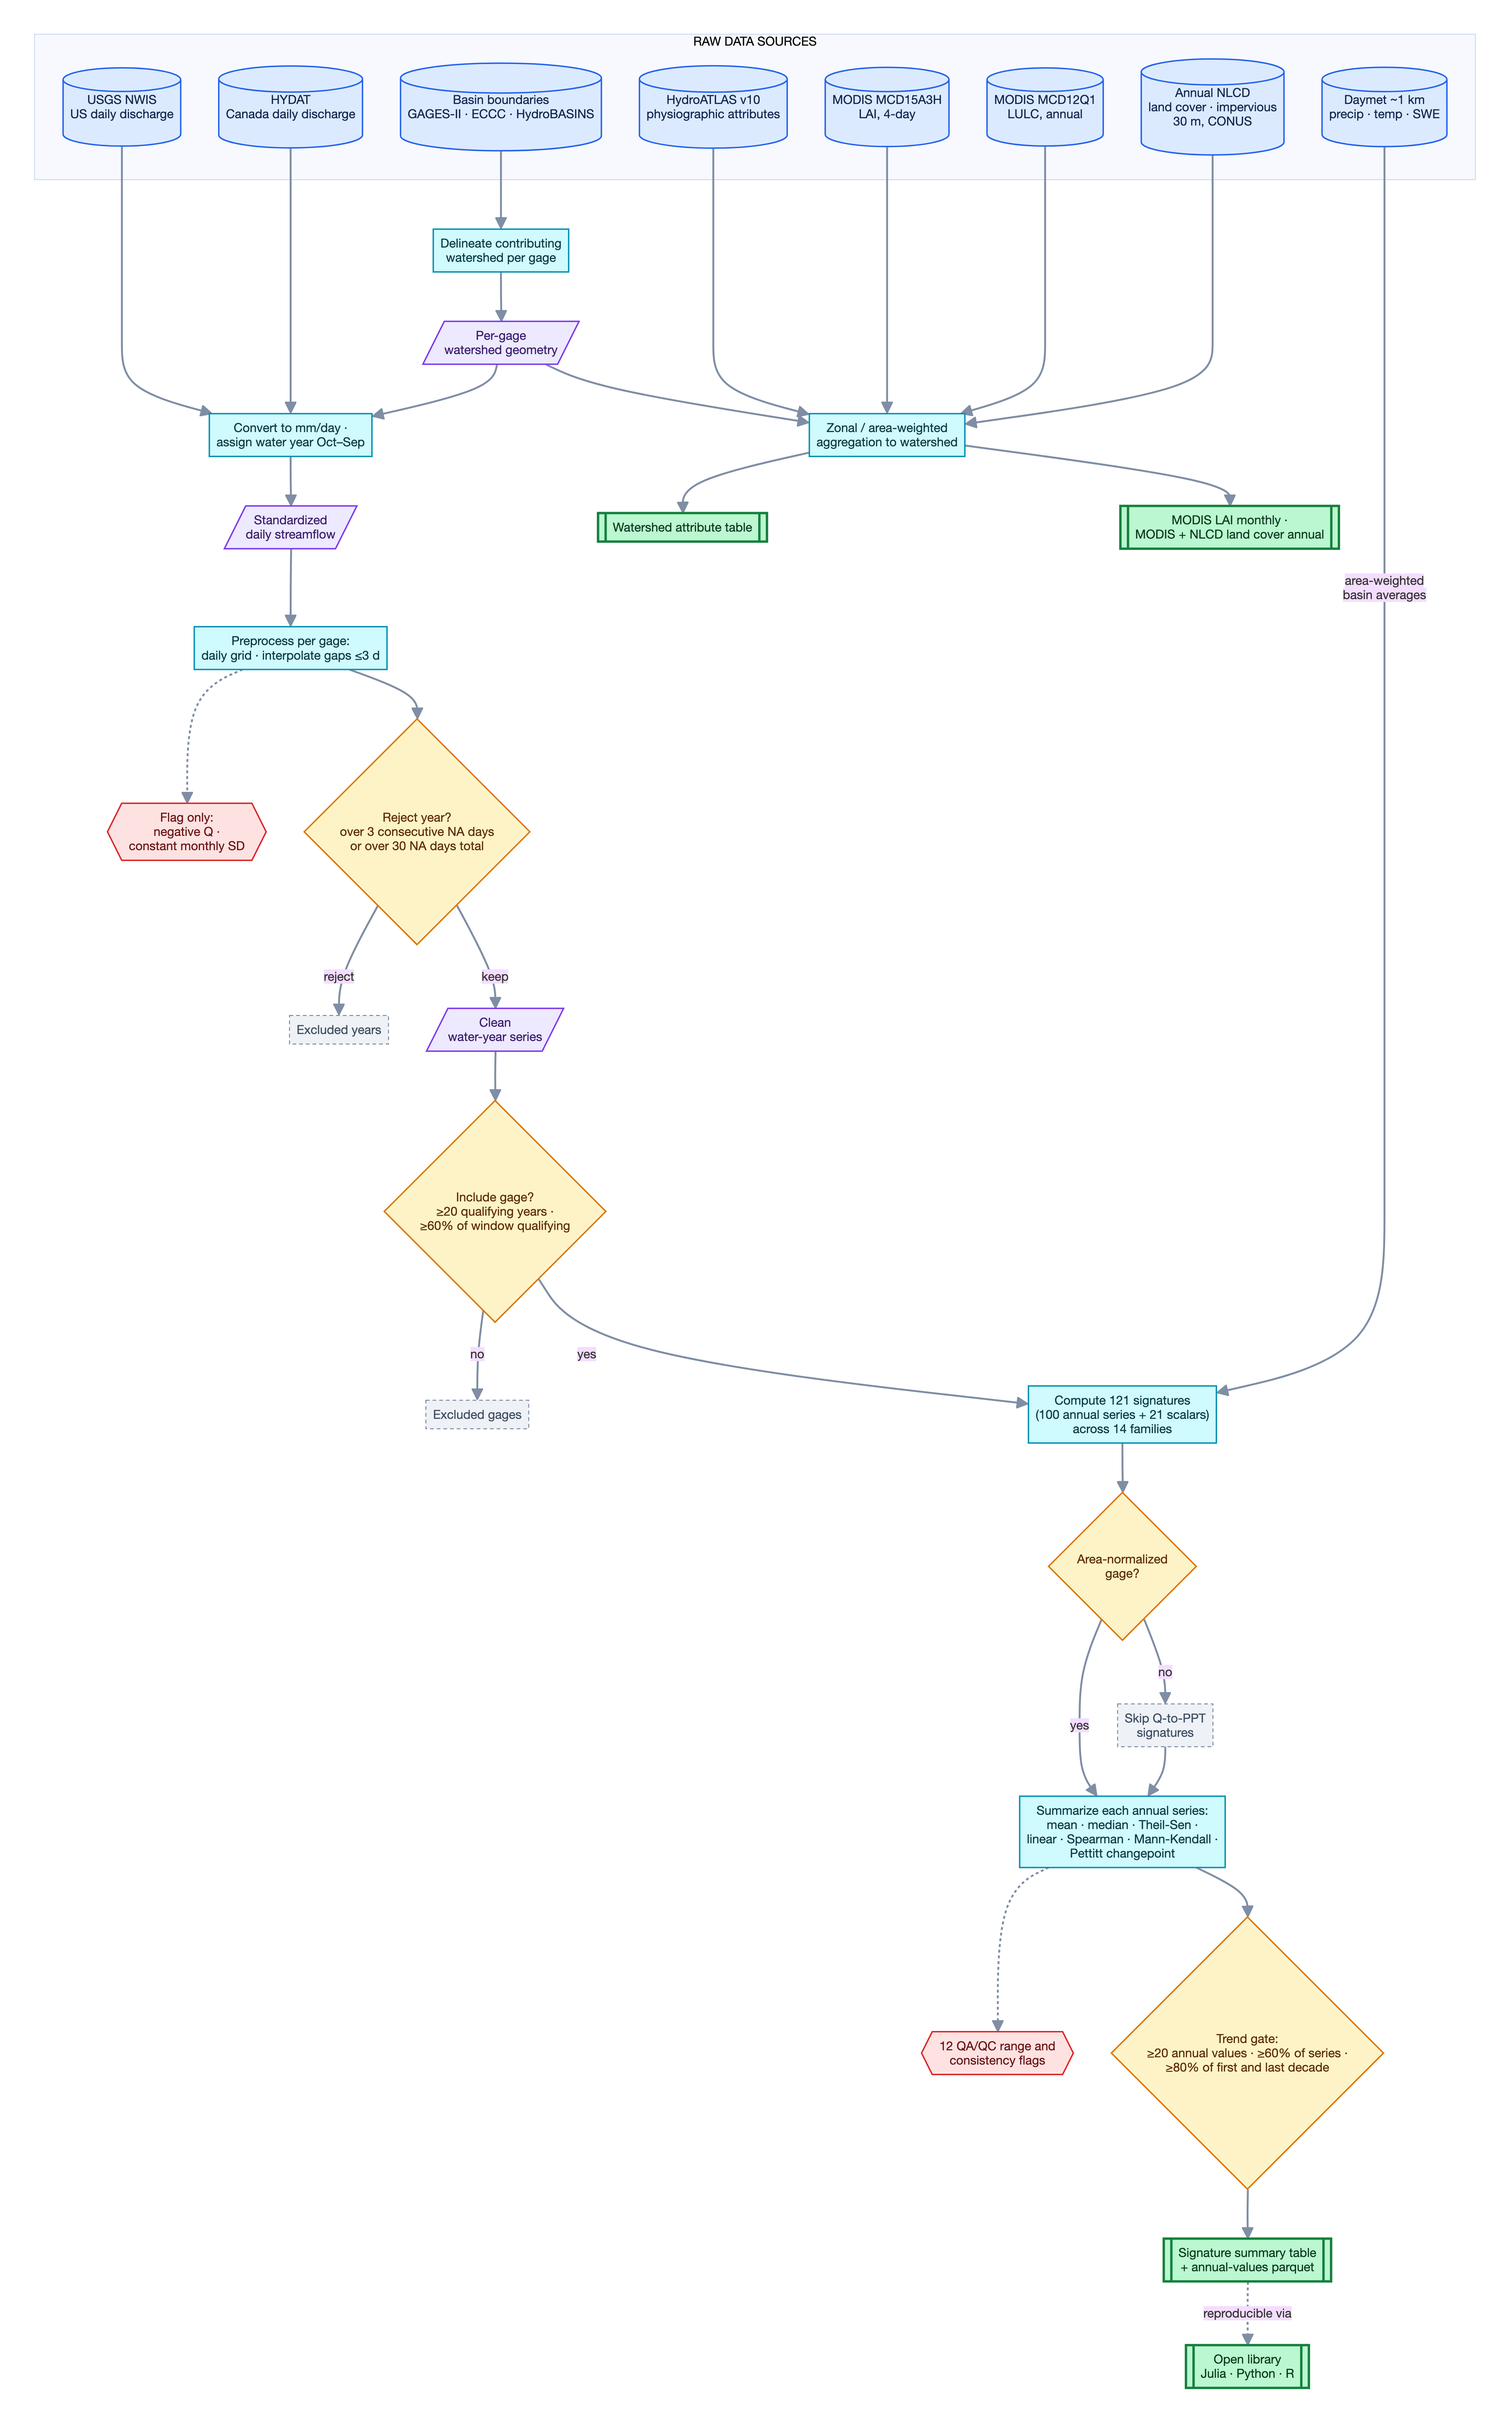
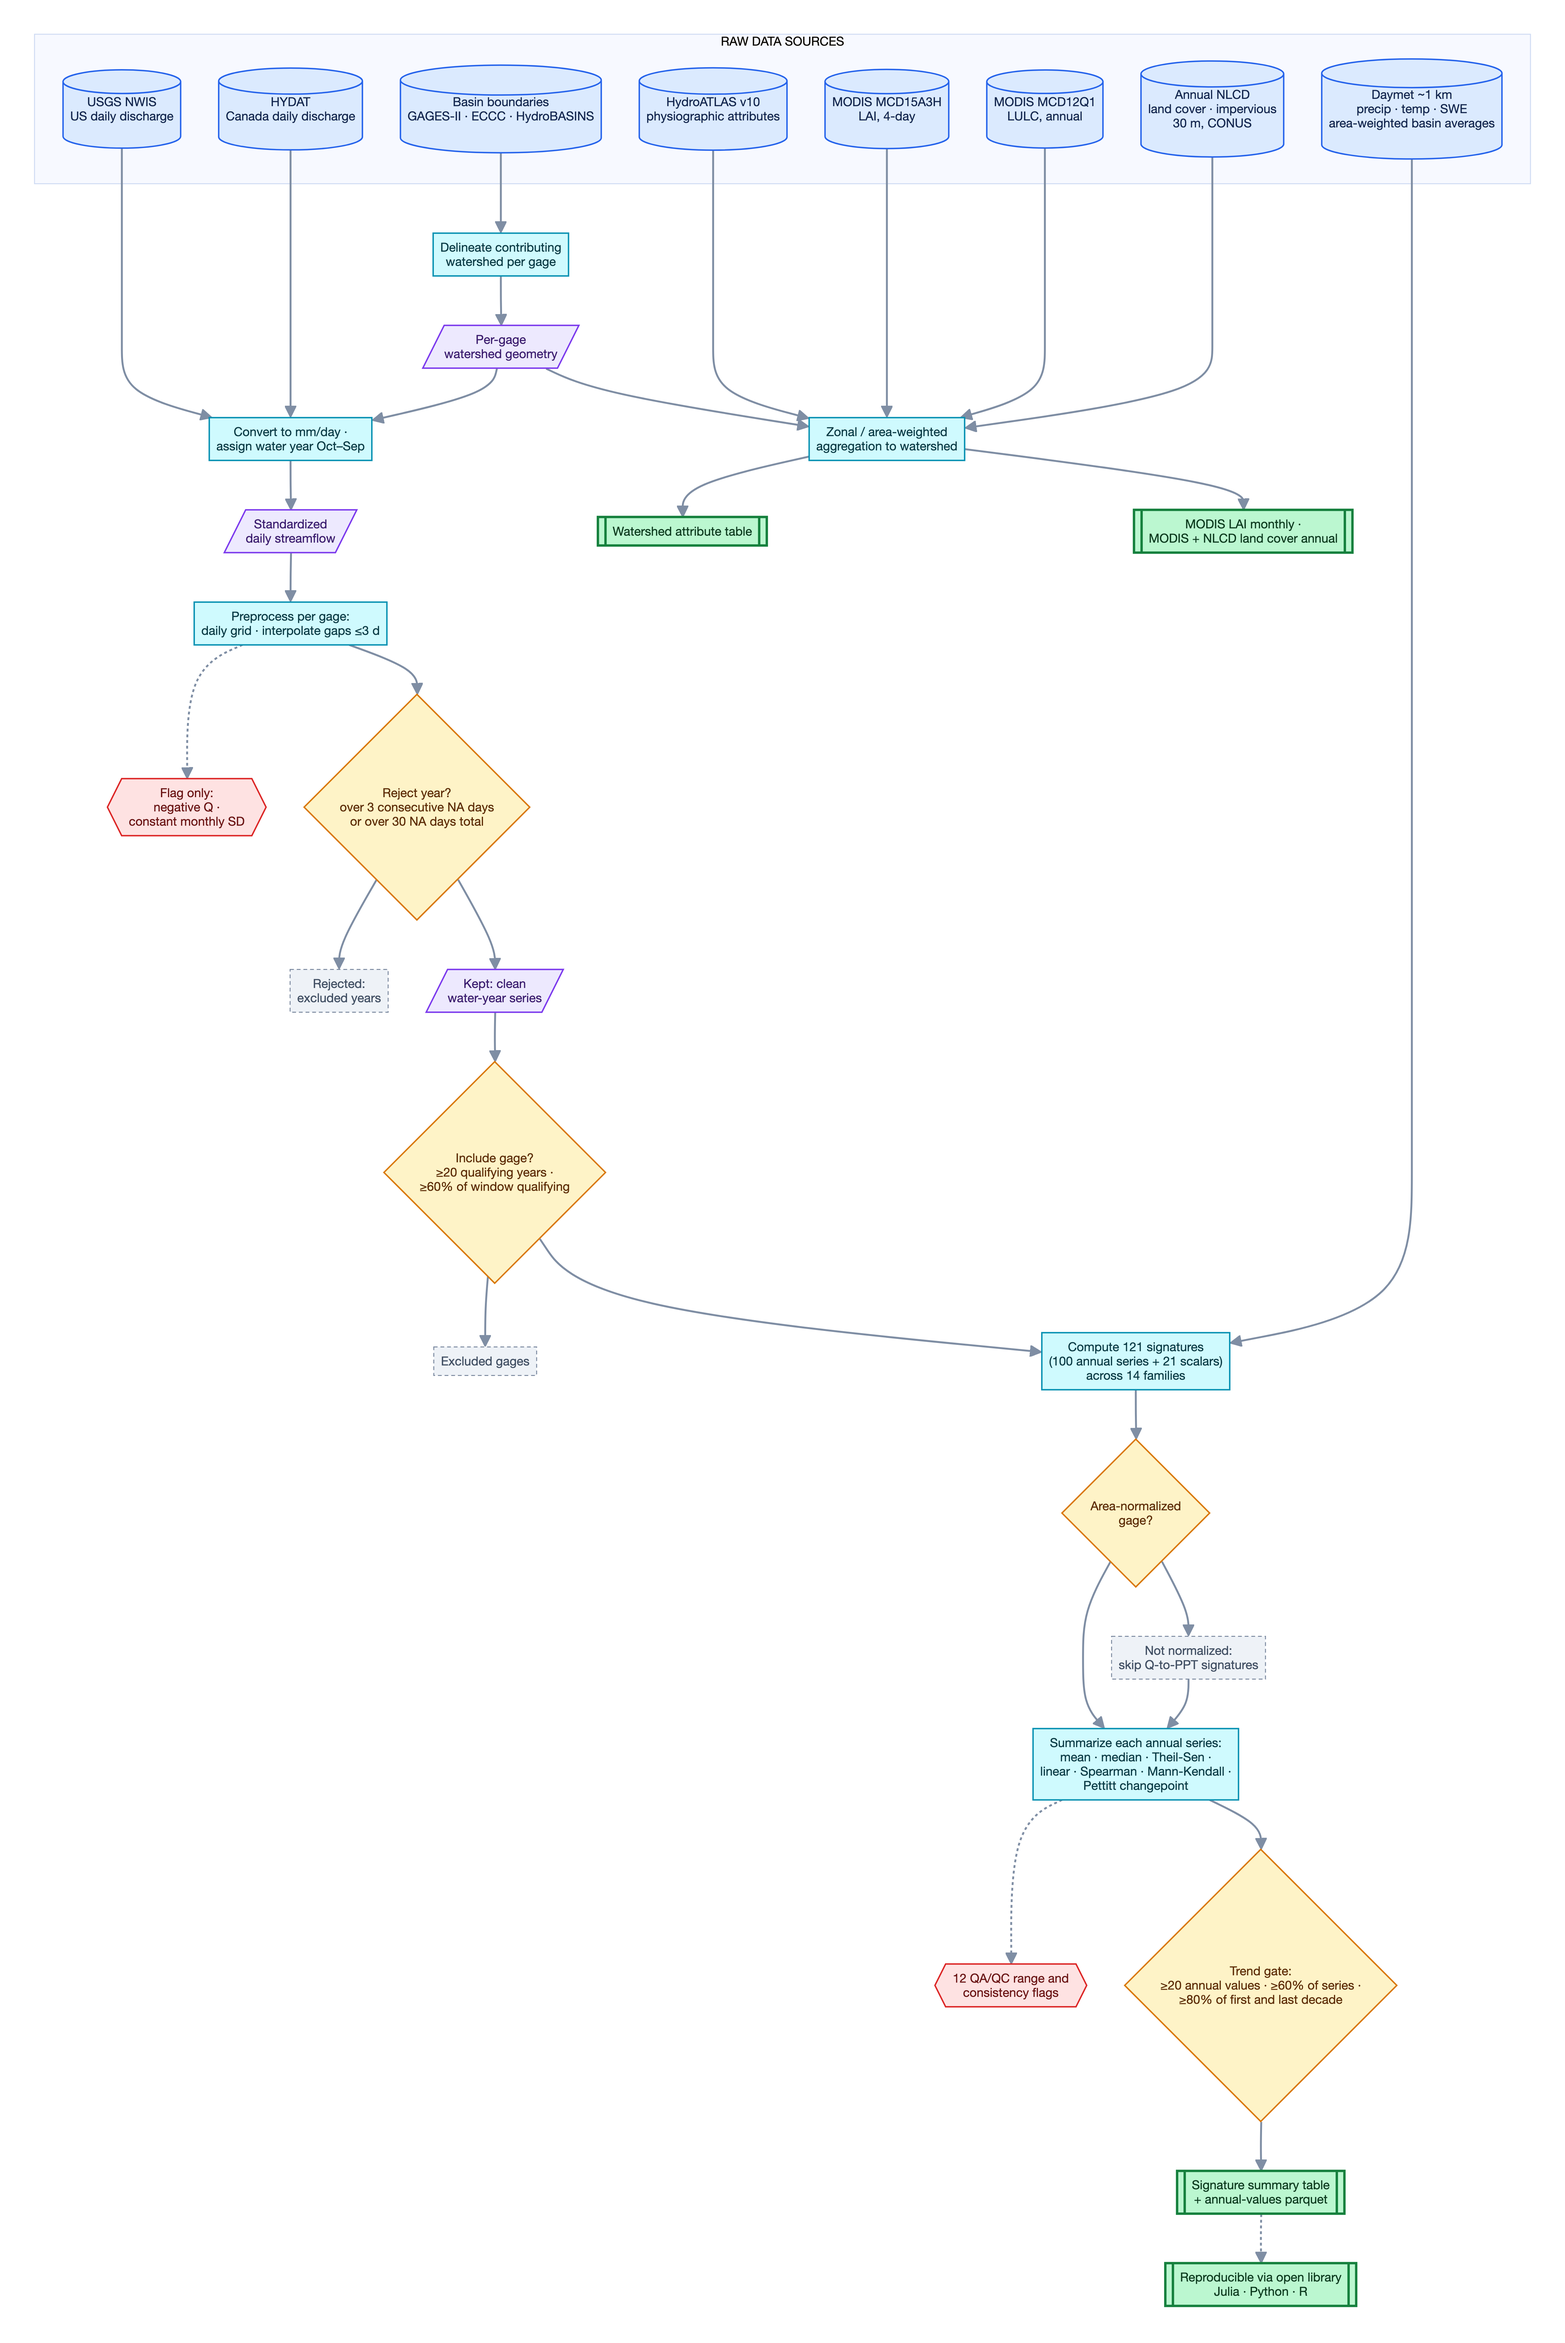
fix(docs): schematic now renders on GitHub — drop init directive + edge labels
GitHub's pinned mermaid crashes at render time (not parse time) on
%%{init}%% directives combined with labeled edges (mermaid-js/mermaid#6452 /
#6022 dagre labeled-edge bug), while stock mermaid 10.9/11.12 render the same
source cleanly. The fenced source is now directive- and edge-label-free:
branch outcomes moved into node text (Rejected/Kept/Not normalized), Daymet's
basin-average note into its source node, and the library link text into the
LIB node. render_mermaid.py injects the former init config via
mermaid.initialize() so the committed 3x PNG keeps the styled look.

Claude-Session: https://claude.ai/code/session_01BLb4JHVEVWwQnYPeNZq5vq

diff --git a/streamflowSignatures/docs/plans/render_mermaid.py b/streamflowSignatures/docs/plans/render_mermaid.py
@@ -12,13 +12,25 @@ out_path = Path(sys.argv[2])
 scale = int(sys.argv[3]) if len(sys.argv) > 3 else 3
 
 diagram = src_path.read_text(encoding="utf-8")
-# The headless shell mishandles the ui-sans-serif/system-ui stack (falls back to
-# serif); substitute a concrete face BEFORE mermaid measures text.
-diagram = diagram.replace(
-    "ui-sans-serif, system-ui, -apple-system, Segoe UI, Roboto, sans-serif",
-    "Helvetica Neue, Helvetica, Arial, sans-serif",
-)
 mermaid_js = (SCRATCH / "mermaid.min.js").read_text(encoding="utf-8")
+
+# Styling injected here rather than as an in-source %%{init}%% directive:
+# GitHub's pinned mermaid crashes at render time on init directives combined
+# with labeled edges (mermaid-js/mermaid#6452/#6022), so the committed source
+# stays directive-free and the PNG render carries the theme config instead.
+# Concrete font face because the headless shell mishandles ui-sans-serif/
+# system-ui stacks (falls back to serif).
+MERMAID_CONFIG = {
+    "startOnLoad": False,
+    "securityLevel": "loose",
+    "theme": "base",
+    "themeVariables": {
+        "fontFamily": "Helvetica Neue, Helvetica, Arial, sans-serif",
+        "fontSize": "13px",
+        "lineColor": "#7f8ea4",
+    },
+    "flowchart": {"htmlLabels": True, "nodeSpacing": 40, "rankSpacing": 52, "curve": "basis"},
+}
 
 html = f"""<!DOCTYPE html>
 <html><head><meta charset="utf-8">
@@ -35,7 +47,7 @@ html = f"""<!DOCTYPE html>
 <div id="wrap"><div id="target"></div></div>
 <script>
   const src = {json.dumps(diagram)};
-  mermaid.initialize({{ startOnLoad: false, securityLevel: "loose" }});
+  mermaid.initialize({json.dumps(MERMAID_CONFIG)});
   mermaid.render("theSvg", src).then(({{ svg }}) => {{
     document.getElementById("target").innerHTML = svg;
     const el = document.querySelector("#target svg");

diff --git a/streamflowSignatures/docs/plans/dataset_workflow_schematic.md b/streamflowSignatures/docs/plans/dataset_workflow_schematic.md
@@ -8,22 +8,30 @@ HydroShare resources' core tables. GitHub renders the diagram below natively.
   (100 annual series + 21 scalars) across **14** families (was "~100 across 13");
   trend gate stated as ≥20 values / **≥60% of series** / ≥80% of first and last
   decade (was "≥80% of series and each decade"); **Annual NLCD** added as a raw
-  source and to the land-cover output table; Daymet edge labeled as pre-computed
+  source and to the land-cover output table; Daymet source noted as pre-computed
   area-weighted basin averages; "gauge" → "gage" (USGS convention); the open
-  library is linked as "reproducible via" rather than a downstream consumer.
+  library linked as "reproducible via" rather than a downstream consumer.
+- **GitHub-compatible form (2026-09-01)**: the source deliberately carries NO
+  `%%{init}%%` directive and NO edge labels — GitHub's pinned mermaid crashes at
+  render time ("Unable to render rich display") on init directives combined with
+  labeled edges (mermaid-js/mermaid#6452 / #6022, a dagre labeled-edge bug its
+  build predates the fix for), even though the diagram parses cleanly in stock
+  mermaid 10/11. Branch outcomes live in node text instead ("Rejected:", "Kept:",
+  "Not normalized:"). Do not reintroduce either construct.
 - **PNG render**: `dataset_workflow_schematic.png` (same folder, 3× resolution,
   white ground) — regenerate with `render_mermaid.py` (same folder; needs a venv
   with `playwright` + `playwright install chromium`, plus `mermaid.min.js`
   downloaded beside the script — cdnjs mermaid 10.9.3 UMD):
-  `python render_mermaid.py <in.mmd> <out.png> 3`. Any mermaid-cli works too.
-  The script works around two headless-shell quirks: mermaid's font CSS never
-  reaches the foreignObject labels (falls back to Times), and the SVG collapses
-  to container width unless pinned to its viewBox size.
+  `python render_mermaid.py <in.mmd> <out.png> 3`. The theme/spacing/curve config
+  the init directive used to carry is injected by the renderer via
+  `mermaid.initialize()`, so the PNG keeps the styled look. The script also works
+  around two headless-shell quirks: mermaid's font CSS never reaches the
+  foreignObject labels (falls back to Times), and the SVG collapses to container
+  width unless pinned to its viewBox size.
 - This folder (`docs/plans/`) is excluded from the public CZ-Sync/HISSS mirror,
   so the figure stays private until the manuscript ships.
 
 ```mermaid
-%%{init: {"theme":"base","themeVariables":{"fontFamily":"ui-sans-serif, system-ui, -apple-system, Segoe UI, Roboto, sans-serif","fontSize":"13px","lineColor":"#7f8ea4"},"flowchart":{"htmlLabels":true,"nodeSpacing":40,"rankSpacing":52,"curve":"basis"}}}%%
 flowchart TB
 
 classDef raw fill:#dbeafe,stroke:#2563eb,stroke-width:1.5px,color:#14274e;
@@ -39,7 +47,7 @@ subgraph SRC["RAW DATA SOURCES"]
   USGS[("USGS NWIS<br/>US daily discharge")]:::raw
   HYDAT[("HYDAT<br/>Canada daily discharge")]:::raw
   BND[("Basin boundaries<br/>GAGES-II · ECCC · HydroBASINS")]:::raw
-  DAY[("Daymet ~1 km<br/>precip · temp · SWE")]:::raw
+  DAY[("Daymet ~1 km<br/>precip · temp · SWE<br/>area-weighted basin averages")]:::raw
   ATL[("HydroATLAS v10<br/>physiographic attributes")]:::raw
   LAI[("MODIS MCD15A3H<br/>LAI, 4-day")]:::raw
   LC[("MODIS MCD12Q1<br/>LULC, annual")]:::raw
@@ -57,17 +65,17 @@ DDP --> QC["Preprocess per gage:<br/>daily grid · interpolate gaps ≤3 d"]:::p
 
 QC -.-> FL{{"Flag only:<br/>negative Q ·<br/>constant monthly SD"}}:::flag
 QC --> YR{"Reject year?<br/>over 3 consecutive NA days<br/>or over 30 NA days total"}:::filt
-YR -->|reject| XY["Excluded years"]:::drop
-YR -->|keep| WYS[/"Clean<br/>water-year series"/]:::inter
+YR --> XY["Rejected:<br/>excluded years"]:::drop
+YR --> WYS[/"Kept: clean<br/>water-year series"/]:::inter
 
 WYS --> GG{"Include gage?<br/>≥20 qualifying years ·<br/>≥60% of window qualifying"}:::filt
-GG -->|no| XG["Excluded gages"]:::drop
-GG -->|yes| SIG["Compute 121 signatures<br/>(100 annual series + 21 scalars)<br/>across 14 families"]:::proc
+GG --> XG["Excluded gages"]:::drop
+GG --> SIG["Compute 121 signatures<br/>(100 annual series + 21 scalars)<br/>across 14 families"]:::proc
 
-DAY -->|"area-weighted<br/>basin averages"| SIG
+DAY --> SIG
 SIG --> AN{"Area-normalized<br/>gage?"}:::filt
-AN -->|"no"| SKIP["Skip Q-to-PPT<br/>signatures"]:::drop
-AN -->|"yes"| ST["Summarize each annual series:<br/>mean · median · Theil-Sen ·<br/>linear · Spearman · Mann-Kendall ·<br/>Pettitt changepoint"]:::proc
+AN --> SKIP["Not normalized:<br/>skip Q-to-PPT signatures"]:::drop
+AN --> ST["Summarize each annual series:<br/>mean · median · Theil-Sen ·<br/>linear · Spearman · Mann-Kendall ·<br/>Pettitt changepoint"]:::proc
 SKIP --> ST
 
 ST -.-> QAF{{"12 QA/QC range and<br/>consistency flags"}}:::flag
@@ -82,5 +90,5 @@ NLCD --> ZON
 TG --> O1[["Signature summary table<br/>+ annual-values parquet"]]:::out
 ZON --> O2[["Watershed attribute table"]]:::out
 ZON --> O3[["MODIS LAI monthly ·<br/>MODIS + NLCD land cover annual"]]:::out
-O1 -. reproducible via .-> LIB[["Open library<br/>Julia · Python · R"]]:::out
+O1 -.-> LIB[["Reproducible via open library<br/>Julia · Python · R"]]:::out
 ```
